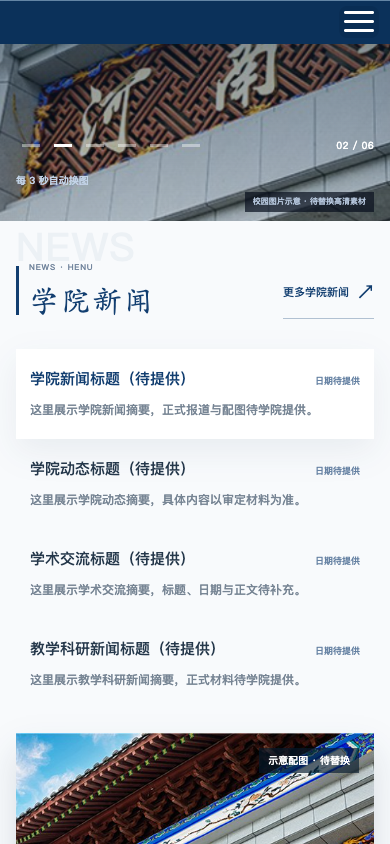
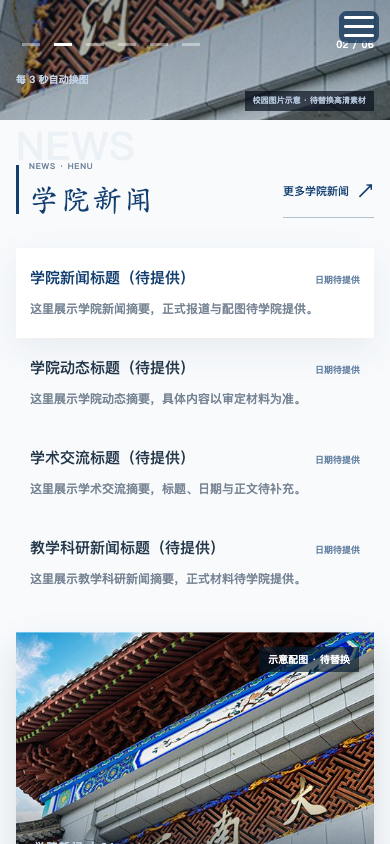
窄屏去掉导航带，汉堡按钮收缩后独立浮在右上角
按用户要求不再保留 navigation-band 这一整条：关闭态带内无流内内容，
高度为 0，底色无从绘制、边线去掉，页面上只剩右上角浮着的按钮；
菜单展开时带才长出来当深色面板。按钮 top 由 --header-progress 从
品牌行居中（34px）插值到右上角（11px），并渐显 70% 深蓝药丸底。

- .navigation-band 窄屏去 border-top；[data-page='inner'] .header-shell
  min-height 归零（浮层页头不占位，内页内容从顶端开始）
- 收缩态展开菜单时带 padding-top 44px 给按钮让位（:has() 同时覆盖
  增强态 .open 与未增强的降级态）
- --header-expanded-height 113→112 / 101→100（只剩品牌行）
- 触发区仍为图标矩形 + 各边 5px = 40x32

验证：390/700/1440 三档带高 0/0/59、按钮 40x32、桌面端带 45px 不变；
面板首卡 top 48 > 按钮底 43 不重叠；无 JS 降级下面板仍从 44px 起。
像素校验：紧凑态 y=27 横排非带色、按钮内为药丸色、外部为内容色。

diff --git a/frontend/preview/css/style.css b/frontend/preview/css/style.css
@@ -154,9 +154,9 @@ ul { padding: 0; margin: 0; list-style: none; }
 .main-nav > ul > .nav-item > .nav-item-heading > a { transition: min-height .65s ease, padding .65s ease, font-size .65s ease, background .25s ease; }
 .site-header.is-compact .main-nav > ul > .nav-item > .nav-item-heading > a { min-height: 44px; padding-block: 5px; font-size: 14px; }
 /* 窄屏下按钮 DOM 在 .header-main 里，但 position:absolute 的包含块是 .site-header
-   （.header-main 无定位，overflow:hidden 不会裁剪），随 --header-progress 从品牌行
-   滑进 43px 导航带右端；触发区只有图标矩形 + 各边 5px。 */
-.nav-toggle { display: none; position: absolute; z-index: 2; top: calc(((var(--brand-height-open) - 32px) * (1 - var(--header-progress)) + (var(--header-compact-height) - 32px) * var(--header-progress)) / 2); right: 15px; padding: 5px; color: #fff; background: rgb(8 43 81 / calc(70% * var(--header-progress))); border: 0; border-radius: 8px; align-items: center; }
+   （.header-main 无定位，overflow:hidden 不会裁剪）：展开态居中于品牌行，页头收缩时
+   滑到右上角独立浮着；触发区只有图标矩形 + 各边 5px。 */
+.nav-toggle { display: none; position: absolute; z-index: 2; top: calc((var(--brand-height-open) - 32px) / 2 * (1 - var(--header-progress)) + 11px * var(--header-progress)); right: 15px; padding: 5px; color: #fff; background: rgb(8 43 81 / calc(70% * var(--header-progress))); border: 0; border-radius: 8px; align-items: center; }
 /* 汉堡三条线 -> 叉：uiverse 复选框汉堡结构，白线条、弹性缓动。 */
 .menu-icon { position: relative; width: 30px; height: 22px; flex: 0 0 auto; }
 .menu-icon > span { position: absolute; left: 0; width: 100%; height: 3px; background: currentColor; border-radius: 4px; transition: transform .45s cubic-bezier(.68,-.6,.32,1.6), opacity .25s ease, left .25s ease; }
@@ -497,10 +497,14 @@ html.snap-enabled[data-motion-paused='true'] { scroll-snap-type: none; }
   .editorial-notices { gap: 25px; }
 }
 @media (max-width: 959px) {
-  :root { --header-expanded-height: 113px; --header-compact-height: 43px; }
+  :root { --header-expanded-height: 112px; --header-compact-height: 43px; }
   .container { width: calc(100% - 40px); }
-  /* 按钮脱离文档流后带内已无流内内容，带高随收缩进度从 0 长到 43px 承接它。 */
-  .navigation-inner { min-height: calc(var(--header-compact-height) * var(--header-progress)); }
+  /* 窄屏不要导航带：关闭态带内无流内内容，高度为 0，底色画不出来、边线也去掉，
+     整条只剩右上角浮着的按钮；菜单展开时带才长出来充当深色面板。 */
+  .navigation-band { border-top: 0; }
+  [data-page='inner'] .header-shell { min-height: 0; }
+  /* 菜单可见时（增强态 .open 或未增强的降级态）带才占位，并给浮着的按钮让出 44px。 */
+  .site-header.is-compact .navigation-band:has(.main-nav:is(.open, :not(.is-enhanced))) { padding-top: 44px; }
   .nav-toggle:not([hidden]) { display: flex; }
   .main-nav.is-enhanced:not(.open) { display: none; }
   /* 卡片式展开：一级栏目按 --nav-i 交错入场；标题逐字动画由 main.js 驱动。 */
@@ -543,7 +547,7 @@ html.snap-enabled[data-motion-paused='true'] { scroll-snap-type: none; }
   .footer-links { display: block; }
 }
 @media (max-width: 600px) {
-  :root { --header-expanded-height: 101px; --header-compact-height: 43px; }
+  :root { --header-expanded-height: 100px; --header-compact-height: 43px; }
   .nav-toggle { right: 11px; }
   .container { width: calc(100% - 32px); }
   .header-main { height: 100px; padding-block: 16px; }

diff --git a/frontend/src/css/style.css b/frontend/src/css/style.css
@@ -154,9 +154,9 @@ ul { padding: 0; margin: 0; list-style: none; }
 .main-nav > ul > .nav-item > .nav-item-heading > a { transition: min-height .65s ease, padding .65s ease, font-size .65s ease, background .25s ease; }
 .site-header.is-compact .main-nav > ul > .nav-item > .nav-item-heading > a { min-height: 44px; padding-block: 5px; font-size: 14px; }
 /* 窄屏下按钮 DOM 在 .header-main 里，但 position:absolute 的包含块是 .site-header
-   （.header-main 无定位，overflow:hidden 不会裁剪），随 --header-progress 从品牌行
-   滑进 43px 导航带右端；触发区只有图标矩形 + 各边 5px。 */
-.nav-toggle { display: none; position: absolute; z-index: 2; top: calc(((var(--brand-height-open) - 32px) * (1 - var(--header-progress)) + (var(--header-compact-height) - 32px) * var(--header-progress)) / 2); right: 15px; padding: 5px; color: #fff; background: rgb(8 43 81 / calc(70% * var(--header-progress))); border: 0; border-radius: 8px; align-items: center; }
+   （.header-main 无定位，overflow:hidden 不会裁剪）：展开态居中于品牌行，页头收缩时
+   滑到右上角独立浮着；触发区只有图标矩形 + 各边 5px。 */
+.nav-toggle { display: none; position: absolute; z-index: 2; top: calc((var(--brand-height-open) - 32px) / 2 * (1 - var(--header-progress)) + 11px * var(--header-progress)); right: 15px; padding: 5px; color: #fff; background: rgb(8 43 81 / calc(70% * var(--header-progress))); border: 0; border-radius: 8px; align-items: center; }
 /* 汉堡三条线 -> 叉：uiverse 复选框汉堡结构，白线条、弹性缓动。 */
 .menu-icon { position: relative; width: 30px; height: 22px; flex: 0 0 auto; }
 .menu-icon > span { position: absolute; left: 0; width: 100%; height: 3px; background: currentColor; border-radius: 4px; transition: transform .45s cubic-bezier(.68,-.6,.32,1.6), opacity .25s ease, left .25s ease; }
@@ -497,10 +497,14 @@ html.snap-enabled[data-motion-paused='true'] { scroll-snap-type: none; }
   .editorial-notices { gap: 25px; }
 }
 @media (max-width: 959px) {
-  :root { --header-expanded-height: 113px; --header-compact-height: 43px; }
+  :root { --header-expanded-height: 112px; --header-compact-height: 43px; }
   .container { width: calc(100% - 40px); }
-  /* 按钮脱离文档流后带内已无流内内容，带高随收缩进度从 0 长到 43px 承接它。 */
-  .navigation-inner { min-height: calc(var(--header-compact-height) * var(--header-progress)); }
+  /* 窄屏不要导航带：关闭态带内无流内内容，高度为 0，底色画不出来、边线也去掉，
+     整条只剩右上角浮着的按钮；菜单展开时带才长出来充当深色面板。 */
+  .navigation-band { border-top: 0; }
+  [data-page='inner'] .header-shell { min-height: 0; }
+  /* 菜单可见时（增强态 .open 或未增强的降级态）带才占位，并给浮着的按钮让出 44px。 */
+  .site-header.is-compact .navigation-band:has(.main-nav:is(.open, :not(.is-enhanced))) { padding-top: 44px; }
   .nav-toggle:not([hidden]) { display: flex; }
   .main-nav.is-enhanced:not(.open) { display: none; }
   /* 卡片式展开：一级栏目按 --nav-i 交错入场；标题逐字动画由 main.js 驱动。 */
@@ -543,7 +547,7 @@ html.snap-enabled[data-motion-paused='true'] { scroll-snap-type: none; }
   .footer-links { display: block; }
 }
 @media (max-width: 600px) {
-  :root { --header-expanded-height: 101px; --header-compact-height: 43px; }
+  :root { --header-expanded-height: 100px; --header-compact-height: 43px; }
   .nav-toggle { right: 11px; }
   .container { width: calc(100% - 32px); }
   .header-main { height: 100px; padding-block: 16px; }

diff --git a/STATUS.md b/STATUS.md
@@ -124,7 +124,7 @@
 | WAL 备份恢复 | 1 项通过（临时样例） | `deployment/test_backup.py` |
 | 打包资源回归 | 7 项通过 | `deployment/test_release_assets.py` |
 | 页头动画控制 | 5 项通过 | `frontend/qa/header-motion-unit.json` |
-| 窄屏汉堡按钮 | 6 项通过 | `frontend/scripts/check-nav-toggle.cjs` |
+| 窄屏汉堡按钮 | 6 项通过（无导航带、收缩后浮右上角） | `frontend/scripts/check-nav-toggle.cjs` |
 | 图片状态机 | 6 项通过 | `frontend/qa/media-loading-unit.json` |
 | 跨页过渡控制 | 5 项通过 | `frontend/scripts/check-page-transition.cjs` |
 | Edge 实际浏览器 | 56 项通过 | `frontend/qa/current-design-browser.json` |
